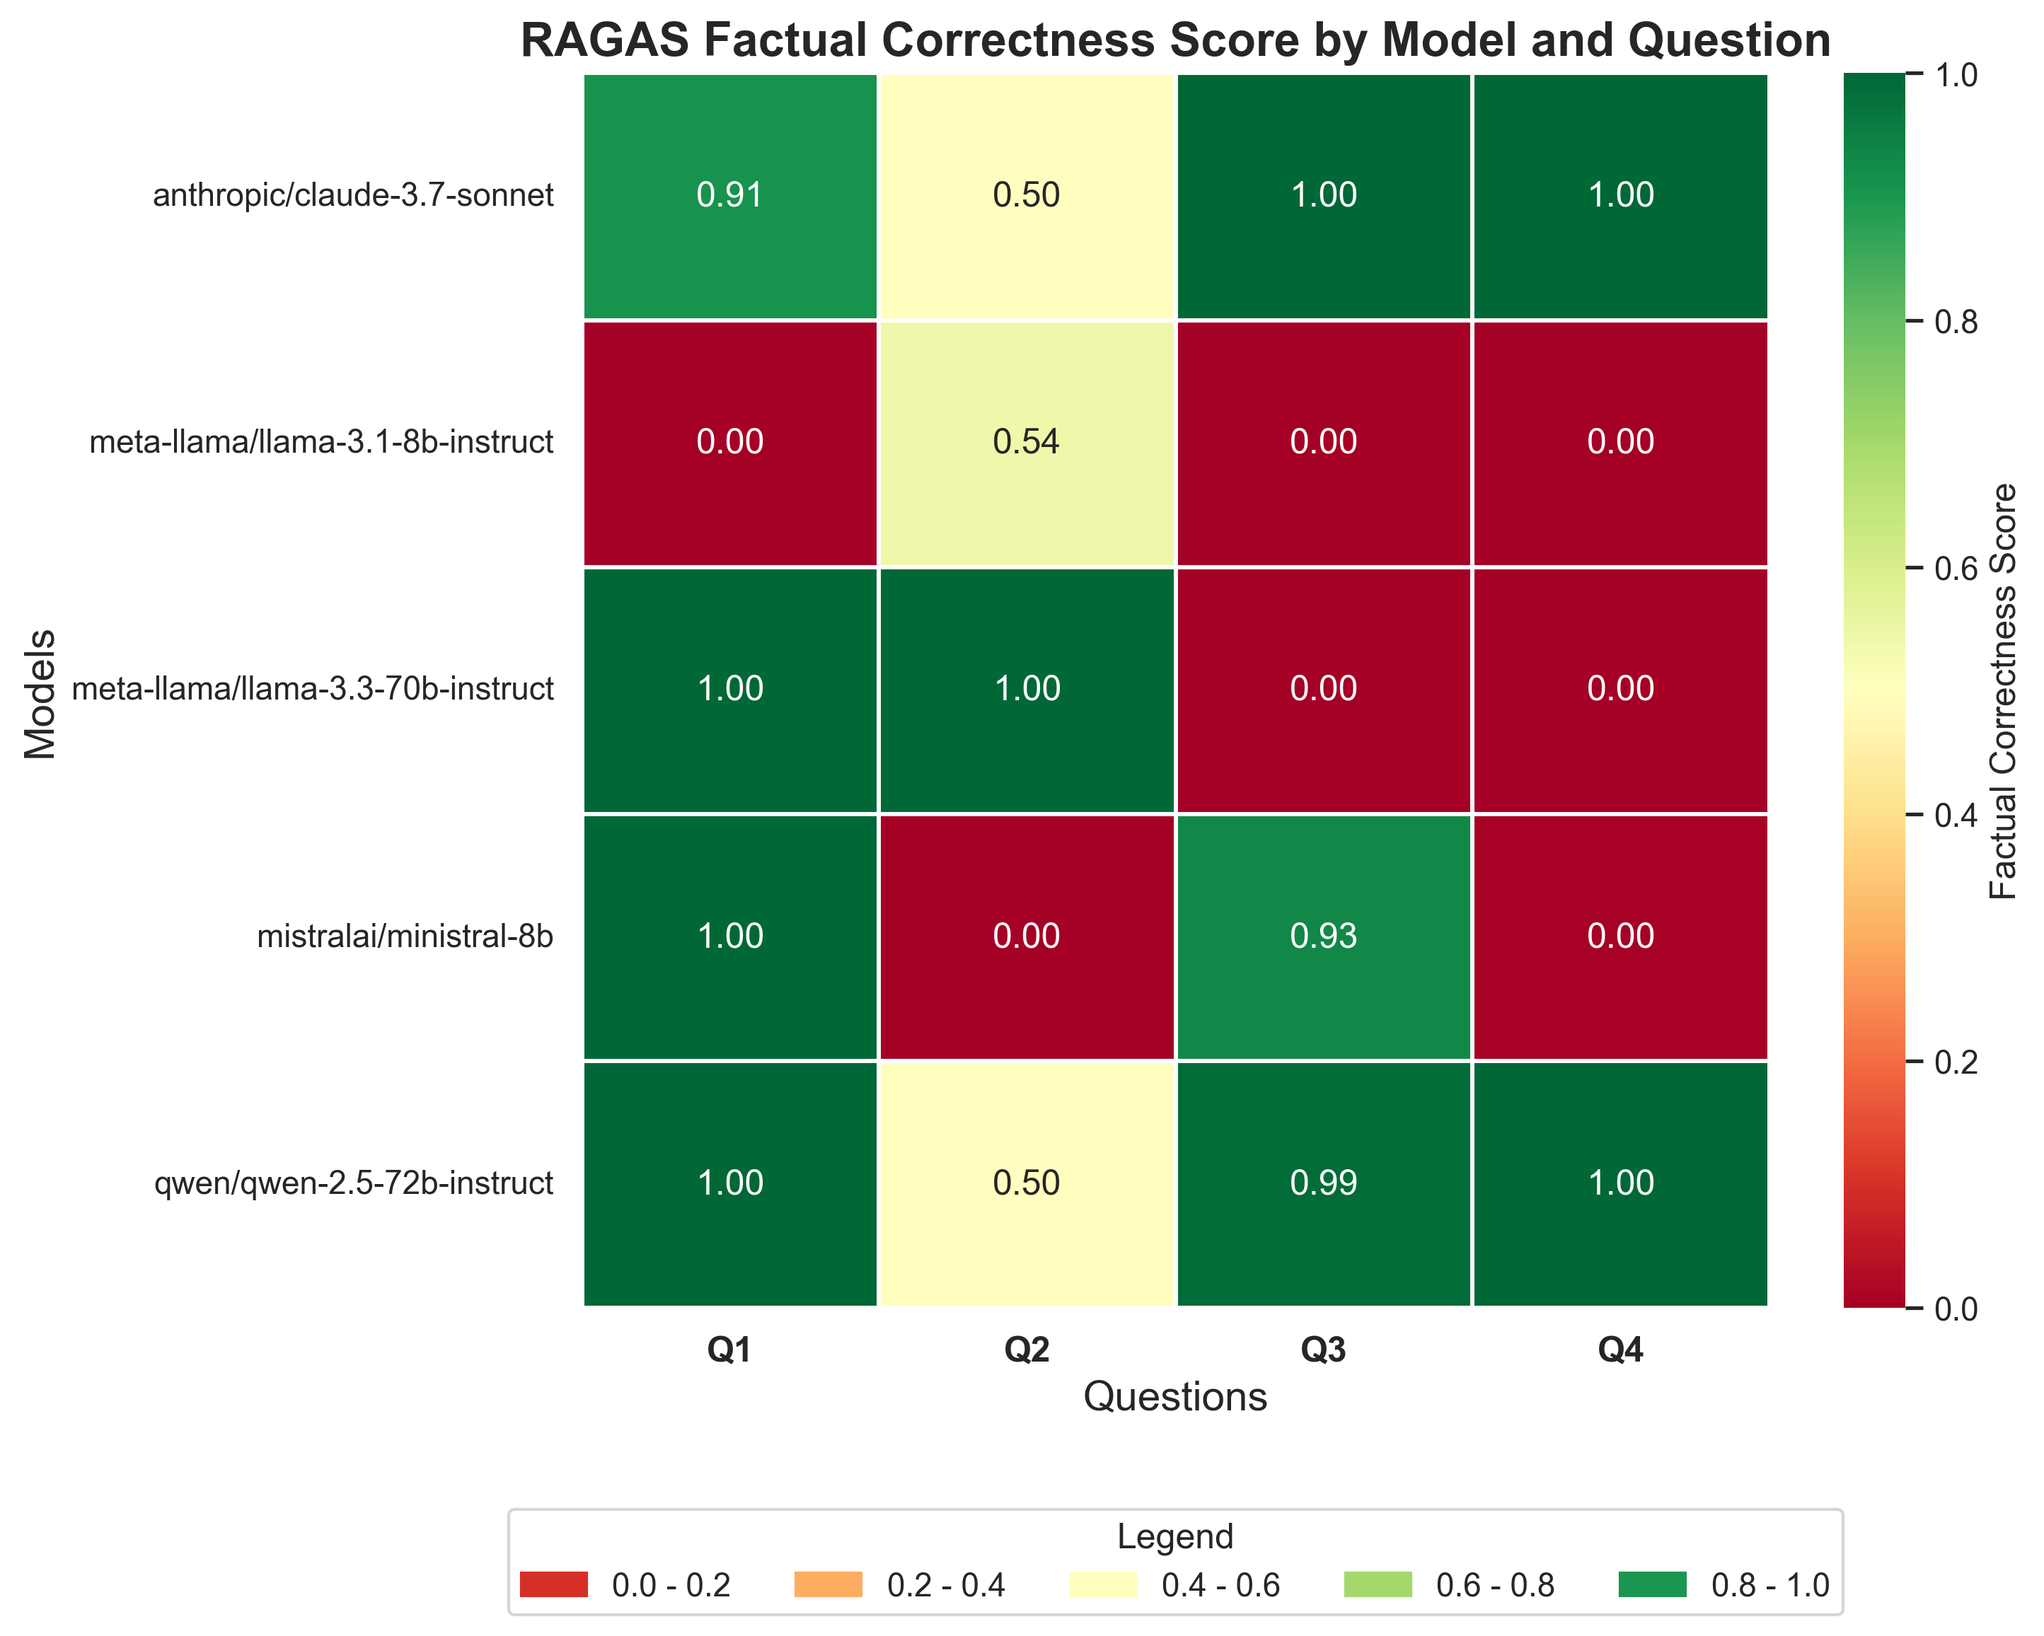
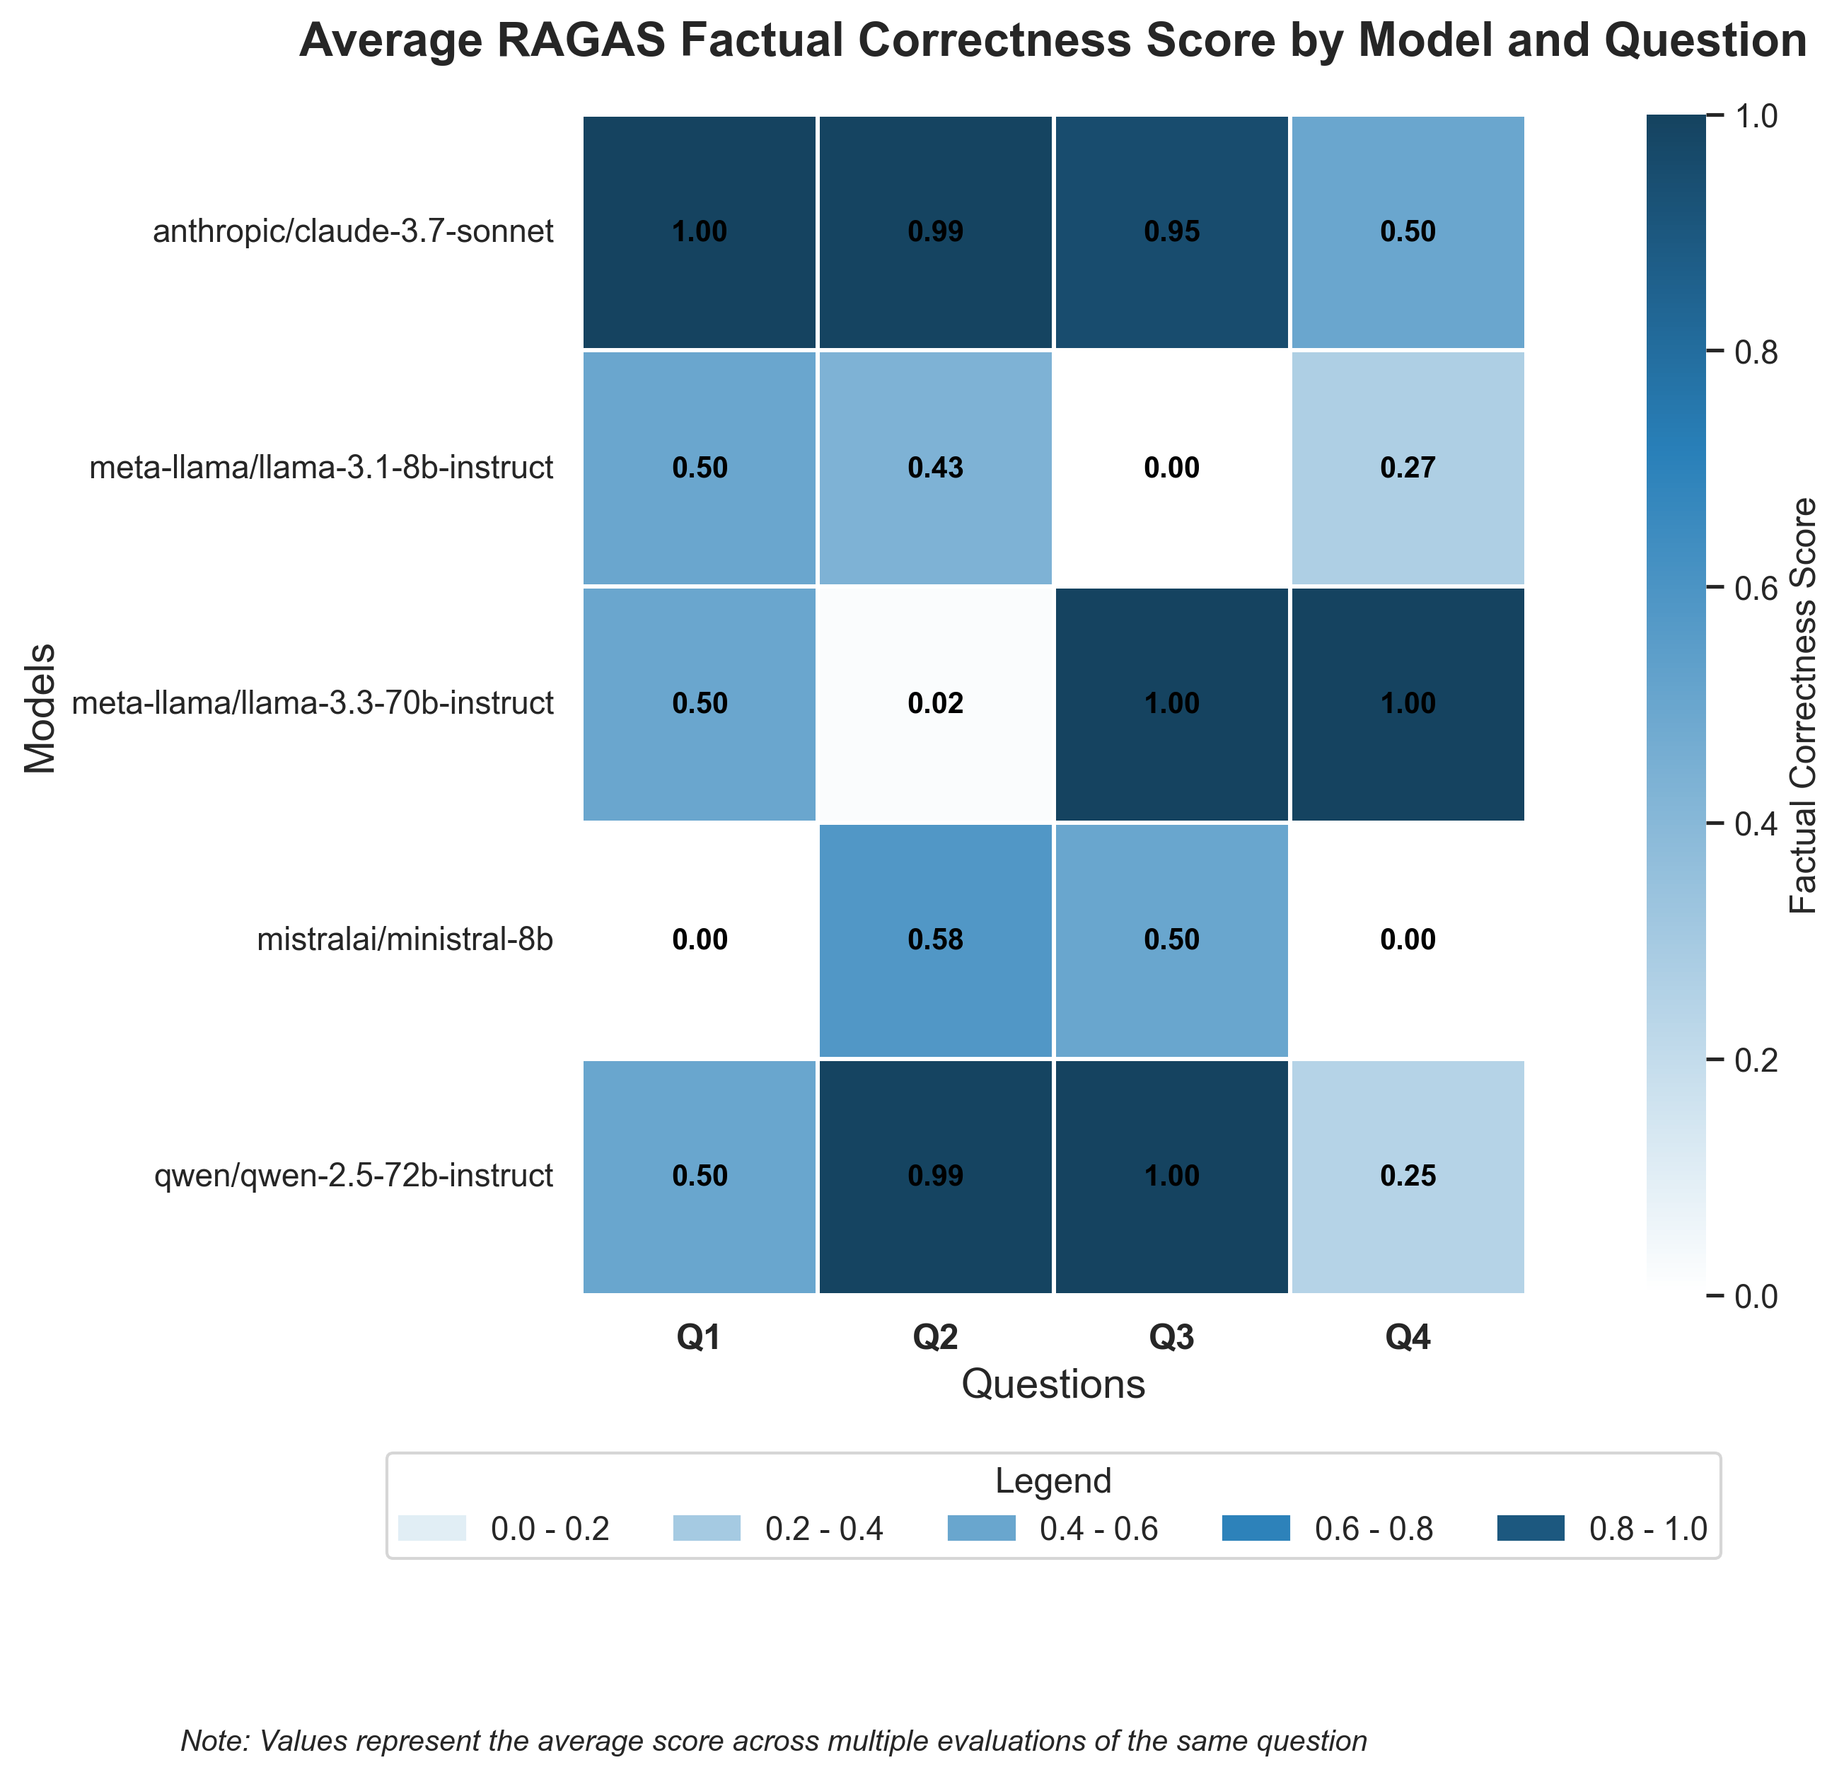
Enhance charts: fix 0.00 annotation bug, improve visuals with blues colormap, add averages to matrix, scale better with more questions

diff --git a/backend/app/utils/chart_generator.py b/backend/app/utils/chart_generator.py
@@ -9,6 +9,8 @@ from contextlib import contextmanager
 from typing import List, Dict, Any, Optional, Tuple, Union
 import logging
 import decimal
+import json
+from matplotlib.colors import LinearSegmentedColormap
 
 # Import our custom database configuration
 try:
@@ -1289,44 +1291,33 @@ class ChartGenerator:
         # Save the figure with higher DPI for better quality
         return self._save_figure("enhanced_ragas_metrics_radar_chart", dpi=300)
 
-    def factual_correctness_matrix(self, max_questions: int = 8, limit_models: int = 8) -> str:
+    def factual_correctness_matrix(self, max_questions: int = 20, limit_models: int = 8) -> str:
         """
         Generate a matrix chart showing factual correctness scores for individual questions across different models.
-        This displays the actual scores for each question rather than averages.
+        This displays the average scores for each question rather than just the latest evaluation.
         
         Args:
-            max_questions: Maximum number of questions to include in the matrix
+            max_questions: Maximum number of questions to include in the matrix (default increased to 20)
             limit_models: Maximum number of models to include in the matrix
             
         Returns:
             Path to the saved chart image
         """
-        # First, get the questions and latest responses from each model
+        # Query to get ALL results (not just latest) for each model and question
         query = """
-        WITH latest_results AS (
-            SELECT 
-                qr.query,
-                m.name AS model_name,
-                em.factual_correctness,
-                ROW_NUMBER() OVER (PARTITION BY qr.query, m.name ORDER BY qr.timestamp DESC) as rn
-            FROM 
-                query_result qr
-                JOIN llm_models m ON qr.llm_model_id = m.id
-                JOIN query_evaluation qe ON qr.id = qe.query_result_id
-                JOIN evaluation_metrics em ON qe.evaluation_metrics_id = em.id
-            WHERE
-                em.factual_correctness IS NOT NULL
-        )
         SELECT 
-            query, 
-            model_name, 
-            factual_correctness
+            qr.query,
+            m.name AS model_name,
+            em.factual_correctness
         FROM 
-            latest_results
-        WHERE 
-            rn = 1
+            query_result qr
+            JOIN llm_models m ON qr.llm_model_id = m.id
+            JOIN query_evaluation qe ON qr.id = qe.query_result_id
+            JOIN evaluation_metrics em ON qe.evaluation_metrics_id = em.id
+        WHERE
+            em.factual_correctness IS NOT NULL
         ORDER BY 
-            model_name, query
+            m.name, qr.query
         """
         
         # Fetch the data
@@ -1343,100 +1334,155 @@ class ChartGenerator:
         # Ensure all data is numeric
         df['factual_correctness'] = pd.to_numeric(df['factual_correctness'], errors='coerce').fillna(0)
         
-        # Select top models based on average factual correctness
-        top_models_query = """
-        SELECT 
-            m.name AS model_name,
-            AVG(em.factual_correctness) AS avg_score,
-            COUNT(DISTINCT qr.query) AS question_count
-        FROM 
-            query_result qr
-            JOIN llm_models m ON qr.llm_model_id = m.id
-            JOIN query_evaluation qe ON qr.id = qe.query_result_id
-            JOIN evaluation_metrics em ON qe.evaluation_metrics_id = em.id
-        WHERE
-            em.factual_correctness IS NOT NULL
-        GROUP BY 
-            m.name
-        ORDER BY 
-            avg_score DESC
-        LIMIT {}
-        """.format(limit_models)
+        # Calculate average factual correctness for each model/question pair
+        avg_df = df.groupby(['model_name', 'query'])['factual_correctness'].mean().reset_index()
         
-        top_models = self._fetch_data(top_models_query)
-        model_list = top_models['model_name'].tolist()
+        # Also count evaluations per model for selection and display purposes
+        eval_counts = df.groupby('model_name')['query'].count().reset_index()
+        eval_counts.columns = ['model_name', 'eval_count']
         
-        # Filter for just those models
-        df = df[df['model_name'].isin(model_list)]
+        # Load the test cases to get the official test numbers
+        try:
+            test_cases_path = os.path.join(os.path.dirname(os.path.dirname(os.path.dirname(os.path.abspath(__file__)))), 
+                                        'app', 'ragas', 'test_cases', 'synthetic_test_cases.json')
+            with open(test_cases_path, 'r') as f:
+                test_cases = json.load(f)
+            
+            # Create a mapping from query text to test_no
+            query_to_test_no = {}
+            for test in test_cases:
+                if 'query' in test and 'test_no' in test:
+                    query_to_test_no[test['query']] = test['test_no']
+            
+            # Log the mapping for debugging
+            logger.info(f"Found {len(query_to_test_no)} test cases with query-to-test_no mapping")
+            
+            # Add test_no to the dataframe
+            avg_df['test_no'] = avg_df['query'].apply(lambda q: query_to_test_no.get(q, 999))  # Default high number for unknown
+        except Exception as e:
+            logger.error(f"Error loading test cases: {e}")
+            # If we can't load the test cases, create a column with sequential numbers
+            unique_queries = avg_df['query'].unique()
+            query_to_test_no = {q: i+1 for i, q in enumerate(unique_queries)}
+            avg_df['test_no'] = avg_df['query'].apply(lambda q: query_to_test_no.get(q, 999))
         
-        # Limit questions - get the most common questions across all models
-        question_counts = df['query'].value_counts().reset_index()
-        question_counts.columns = ['query', 'count']
-        common_questions = question_counts.head(max_questions)['query'].tolist()
+        # Get top models based on average factual correctness
+        model_avg_scores = avg_df.groupby('model_name')['factual_correctness'].mean().reset_index()
+        model_avg_scores = model_avg_scores.sort_values('factual_correctness', ascending=False)
+        top_models = model_avg_scores.head(limit_models)['model_name'].tolist()
         
-        # Create simplified question labels (Q1, Q2, etc.)
+        # Filter data for just those models
+        avg_df = avg_df[avg_df['model_name'].isin(top_models)]
+        
+        # Get questions sorted by test_no instead of frequency
+        question_test_no = avg_df[['query', 'test_no']].drop_duplicates()
+        question_test_no = question_test_no.sort_values('test_no')
+        common_questions = question_test_no.head(max_questions)['query'].tolist()
+        
+        # Create simplified question labels (Q1, Q2, etc.) that match the test_no
         question_display = {}
-        for i, q in enumerate(common_questions):
-            question_display[q] = f"Q{i+1}"
+        for q in common_questions:
+            test_no = query_to_test_no.get(q, 0)
+            if test_no > 0 and test_no < 100:  # Reasonable test_no range
+                question_display[q] = f"Q{test_no}"
+            else:
+                # Fallback to order in list if test_no is missing or invalid
+                question_display[q] = f"Q{common_questions.index(q) + 1}"
         
         # Filter for just those questions
-        df = df[df['query'].isin(common_questions)]
+        avg_df = avg_df[avg_df['query'].isin(common_questions)]
         
-        # Pivot the data to create the matrix
-        matrix_df = df.pivot(index='model_name', columns='query', values='factual_correctness')
+        # Pivot the data to create the matrix using the averaged values
+        matrix_df = avg_df.pivot(index='model_name', columns='query', values='factual_correctness')
         
         # Replace column names with Q1, Q2, etc. labels
         matrix_df = matrix_df.rename(columns=question_display)
+        
+        # Reorder columns by test number
+        ordered_columns = sorted(matrix_df.columns, key=lambda x: int(x[1:]) if x[1:].isdigit() else 999)
+        matrix_df = matrix_df[ordered_columns]
         
         # Create figure with size based on number of questions
         question_count = len(matrix_df.columns)
         model_count = len(matrix_df.index)
         
-        width = max(10, 8 + 0.4 * question_count)  # Base width plus adjustment for questions
-        height = max(8, 6 + 0.3 * model_count)    # Base height plus adjustment for models
+        # Improved sizing formula for better scaling with many questions
+        # Increase width more aggressively as question count grows
+        # More balanced sizing with larger question counts to keep cells square-ish
+        width = max(12, 8 + 0.4 * question_count)  # Base width plus adjustment for questions
+        height = max(8, 6 + 0.45 * model_count)    # Base height plus adjustment for models
         
-        plt.figure(figsize=(width, height), facecolor='white')
+        # Adjust cell size as question count increases
+        cell_size_factor = 1.0 if question_count <= 8 else (1.0 - min(0.4, (question_count - 8) * 0.025))
+        
+        # Set up the figure with a high-resolution DPI for better scaling
+        plt.figure(figsize=(width * cell_size_factor, height), facecolor='white', dpi=150)
         
         # Create the heatmap with a color gradient
-        cmap = plt.cm.RdYlGn  # Red-Yellow-Green colormap
+        # Replace RdYlGn with a custom color scheme that matches the application theme
+        from matplotlib.colors import LinearSegmentedColormap
         
-        # Create the heatmap
+        # Create a custom colormap that transitions from light blue to dark blue
+        # This matches the application's blue theme better than the red-yellow-green
+        colors = ["#ffffff", "#d4e6f1", "#a9cce3", "#7fb3d5", "#5499c7", "#2980b9", "#1f618d", "#154360"]
+        custom_cmap = LinearSegmentedColormap.from_list("app_blues", colors)
+        
+        # Create the heatmap with appropriate cell sizes
         ax = sns.heatmap(
             matrix_df,
             annot=True,
-            cmap=cmap,
+            cmap=custom_cmap,  # Custom blue colormap
             vmin=0,
             vmax=1,
-            linewidths=1,
+            linewidths=max(0.5, 1.0 * cell_size_factor),  # Thinner lines for more cells
             linecolor='white',
             fmt='.2f',
-            cbar_kws={'label': 'Factual Correctness Score'}
+            annot_kws={"color": "black", 
+                      "fontweight": "bold",
+                      "fontsize": max(8, 10 * cell_size_factor)},  # Smaller text for more cells
+            cbar_kws={'label': 'Factual Correctness Score',
+                     'shrink': min(1.0, 0.8 + 0.2 * cell_size_factor)}  # Adjust colorbar size
         )
         
+        # Ensure square cells for better appearance
+        ax.set_aspect('equal', adjustable='box')
+        
         # Customize the appearance
-        plt.title('RAGAS Factual Correctness Score by Model and Question', fontsize=16, fontweight='bold')
+        plt.title('Average RAGAS Factual Correctness Score by Model and Question', 
+                 fontsize=16, 
+                 fontweight='bold',
+                 pad=20)  # Add padding between title and plot
         plt.xlabel('Questions', fontsize=14)
         plt.ylabel('Models', fontsize=14)
         
-        # Use horizontal alignment for x tick labels
-        plt.xticks(rotation=0, ha='center', fontsize=12, fontweight='bold')
+        # Dynamic label rotation based on number of questions
+        # Use horizontal for few questions, angled for many
+        if question_count <= 8:
+            plt.xticks(rotation=0, ha='center', fontsize=12, fontweight='bold')
+        else:
+            # Use rotated labels for larger question counts
+            rotation = min(45, max(20, question_count * 1.5))  # Scale rotation with question count
+            plt.xticks(rotation=rotation, ha='right', fontsize=11, fontweight='bold')
         
         # Add a legend box under the questions
         legend_handles = []
         legend_labels = []
         
-        # Create custom color squares for the legend
+        # Create custom color squares for the legend with the new color scheme
         legend_colors = [
-            (cmap(0.1), '0.0 - 0.2'),
-            (cmap(0.3), '0.2 - 0.4'),
-            (cmap(0.5), '0.4 - 0.6'),
-            (cmap(0.7), '0.6 - 0.8'),
-            (cmap(0.9), '0.8 - 1.0')
+            (custom_cmap(0.1), '0.0 - 0.2'),
+            (custom_cmap(0.3), '0.2 - 0.4'),
+            (custom_cmap(0.5), '0.4 - 0.6'),
+            (custom_cmap(0.7), '0.6 - 0.8'),
+            (custom_cmap(0.9), '0.8 - 1.0')
         ]
         
         for color, label in legend_colors:
             legend_handles.append(plt.Rectangle((0, 0), 1, 1, color=color))
             legend_labels.append(label)
+        
+        # Position the legend - adjust for question count
+        legend_position = -0.12 if question_count < 10 else -0.08  # Less bottom padding for more questions
         
         # Position the legend below the matrix
         legend = plt.legend(
@@ -1444,14 +1490,21 @@ class ChartGenerator:
             legend_labels,
             title="Legend",
             loc='upper center',
-            bbox_to_anchor=(0.5, -0.15),  # Move legend further down
-            ncol=len(legend_colors),
+            bbox_to_anchor=(0.5, legend_position),
+            ncol=min(len(legend_colors), 5),  # Ensure the legend isn't too wide
             frameon=True
         )
         
-        # Adjust layout to make room for the legend
-        plt.tight_layout()
-        plt.subplots_adjust(bottom=0.22)  # Increase bottom padding significantly
+        # Add a note about averaging
+        plt.figtext(0.5, -0.01, "Note: Values represent the average score across multiple evaluations of the same question",
+                   ha="center", fontsize=10, fontstyle="italic")
         
-        # Save the figure with higher DPI for better quality
+        # Adjust layout to make room for the legend and note
+        plt.tight_layout()
+        
+        # Dynamic padding based on question count
+        bottom_padding = 0.25 if question_count < 10 else max(0.15, 0.25 - (question_count-10)*0.01)
+        plt.subplots_adjust(bottom=bottom_padding)
+        
+        # Save the figure with even higher DPI for better quality with many questions
         return self._save_figure("factual_correctness_matrix", dpi=300) 
